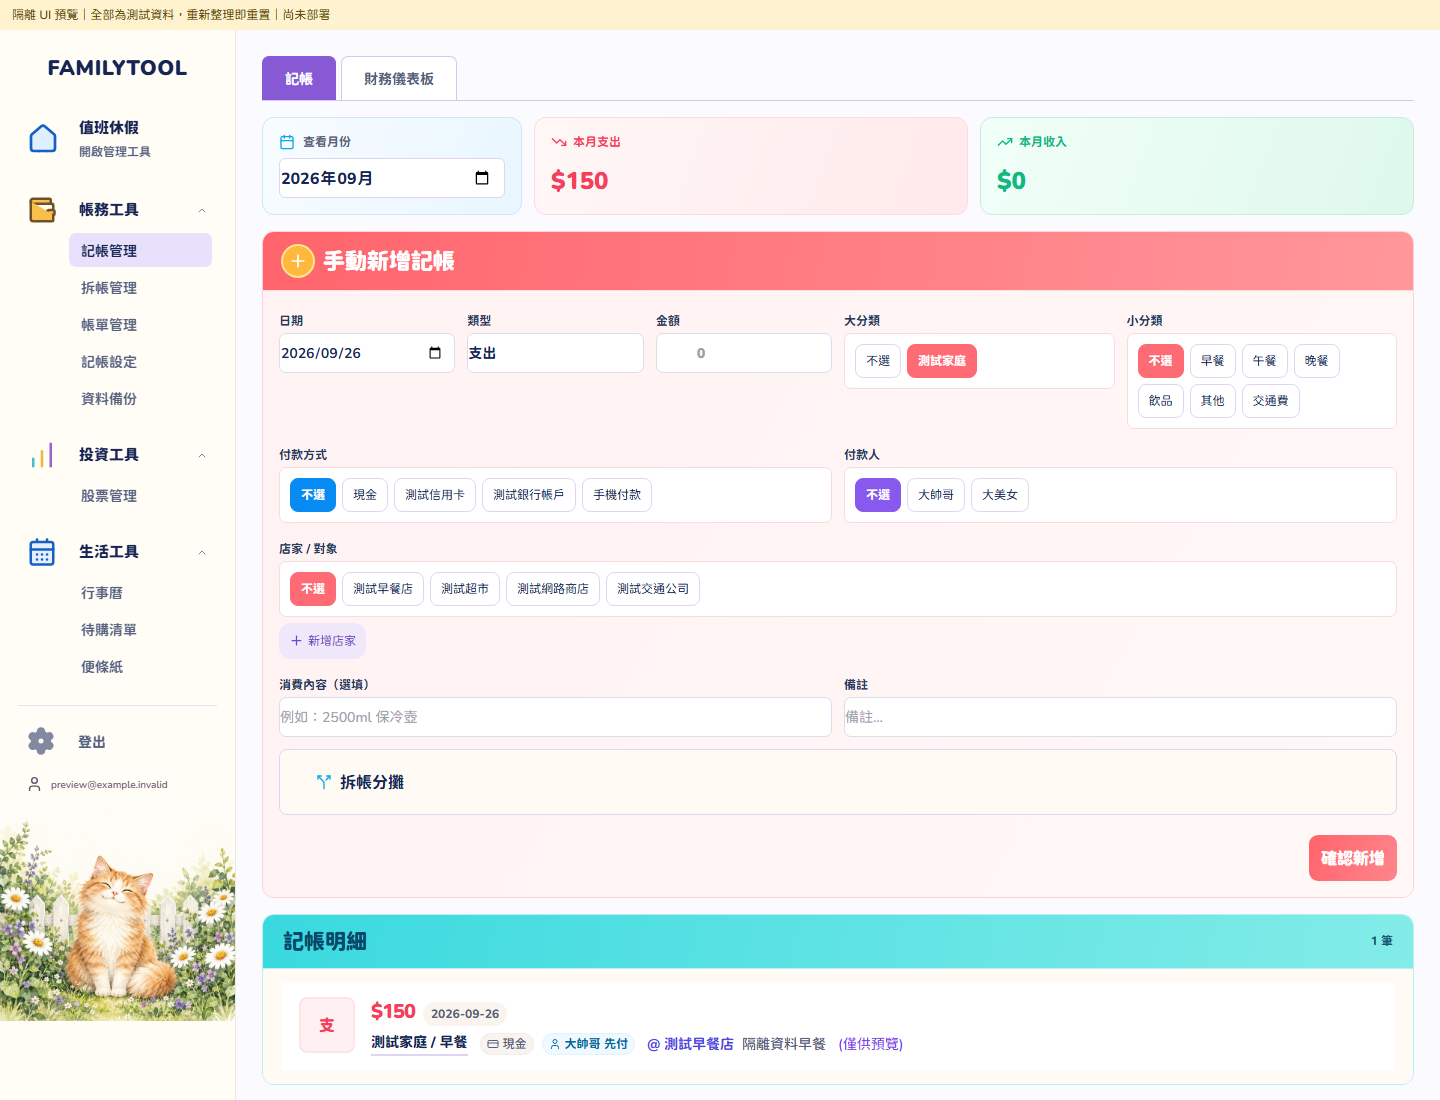
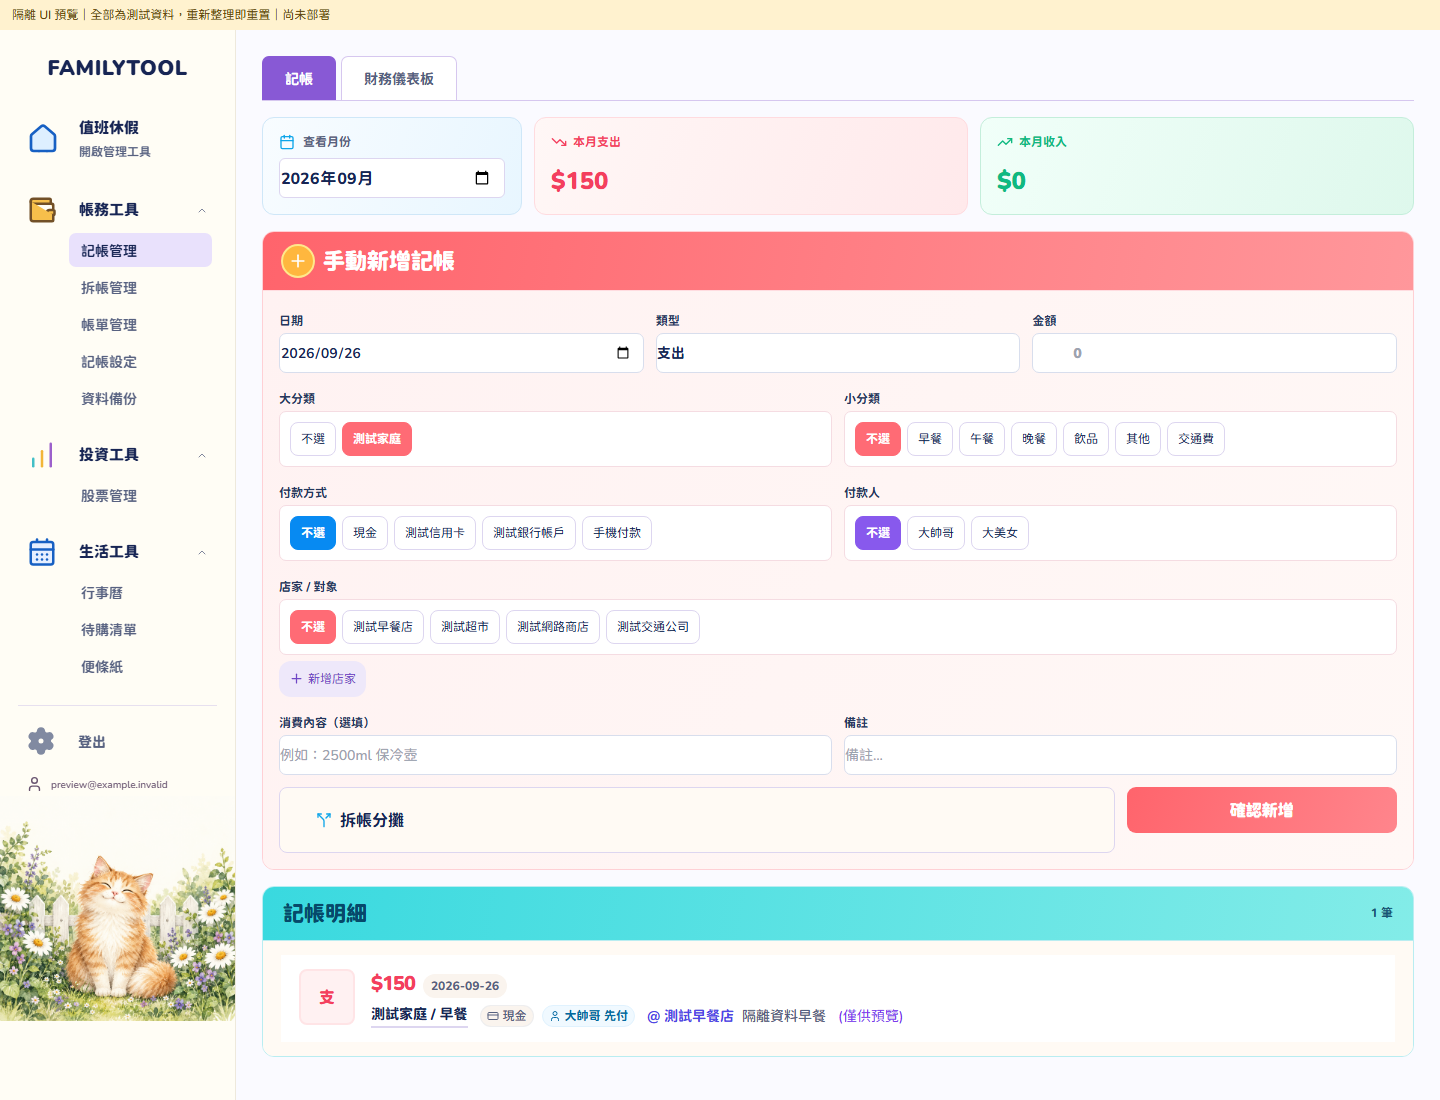
style: match confirmed ledger form field arrangement

diff --git a/src/app/ledger/ledger-entry-ui.css b/src/app/ledger/ledger-entry-ui.css
@@ -29,15 +29,16 @@
 .ledger-pilot .ledger-records-panel > div:first-child span { color:#195575 !important; }
 .ledger-pilot .ledger-records-panel .group { padding:14px 18px; }
 .ledger-pilot .ledger-records-panel .group:hover { background:#f1fcfd !important; }
-@media(min-width:1200px) {
+@media(min-width:768px) {
   .ledger-pilot .ledger-entry-fields { grid-template-columns:repeat(12,minmax(0,1fr)); }
   .ledger-pilot .ledger-entry-fields > div { grid-column:span 6; }
-  .ledger-pilot .ledger-entry-fields > div:nth-child(-n+3) { grid-column:span 2; }
+  .ledger-pilot .ledger-entry-fields > div:nth-child(-n+3) { grid-column:span 4; }
   .ledger-pilot .ledger-entry-fields > div:nth-child(4),
-  .ledger-pilot .ledger-entry-fields > div:nth-child(5) { grid-column:span 3; }
-  .ledger-pilot .ledger-entry-fields > div:nth-child(8),
-  .ledger-pilot .ledger-entry-fields > div:nth-last-child(2),
-  .ledger-pilot .ledger-entry-fields > div:last-child { grid-column:1 / -1; }
+  .ledger-pilot .ledger-entry-fields > div:nth-child(5) { grid-column:span 6; }
+  .ledger-pilot .ledger-entry-fields > div:nth-child(8) { grid-column:1 / -1; }
+  .ledger-pilot .ledger-entry-fields > div:nth-last-child(2) { grid-column:span 9; }
+  .ledger-pilot .ledger-entry-fields > div:last-child { grid-column:span 3; margin-top:0; align-self:start; }
+  .ledger-pilot .ledger-entry-fields > div:last-child > button { width:100%; padding-inline:12px; min-height:60px; }
 }
 @media(max-width:767px) {
   .family-content .ledger-pilot .ledger-entry-panel > button h2 { font-size:18px; }
